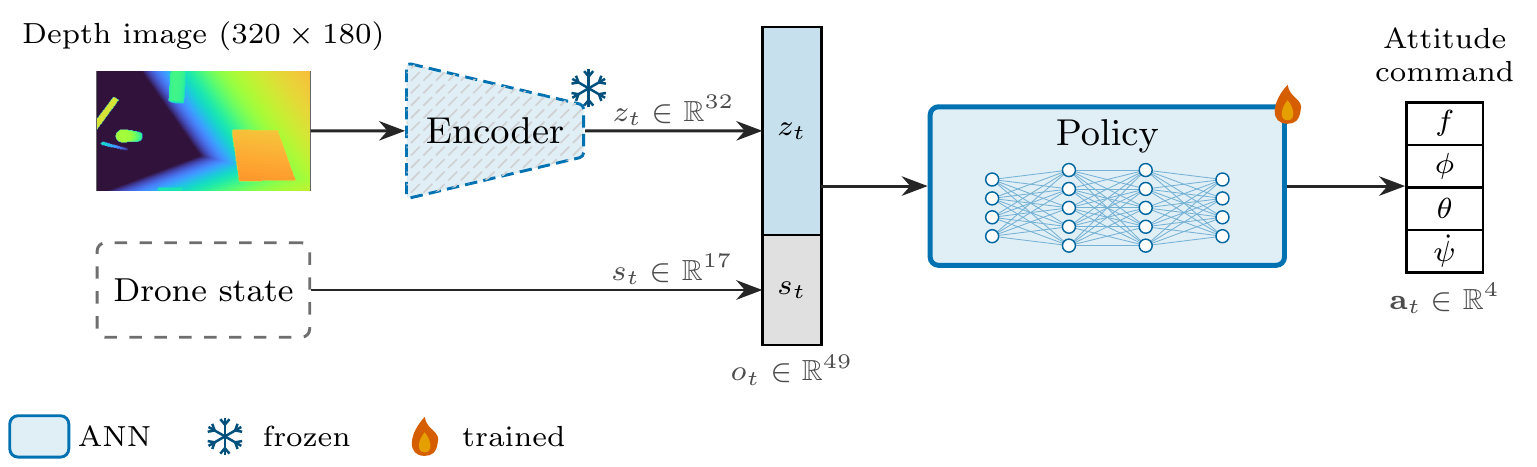
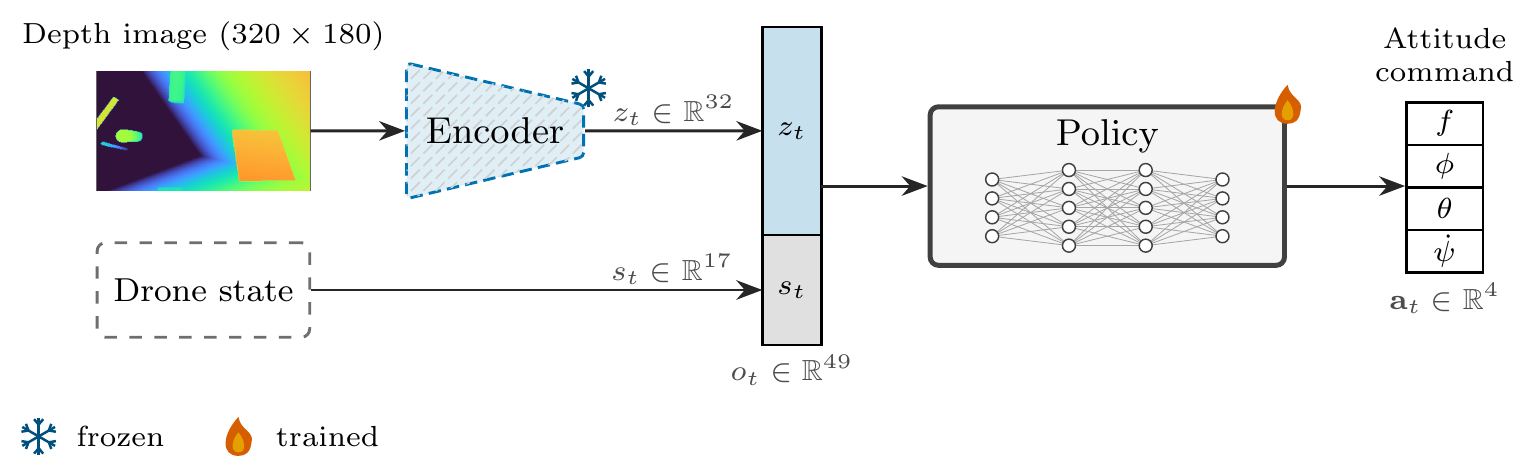
Policy figure: neutral policy box, no ANN legend entry
The policy block and its network glyph are drawn in gray instead of the ANN
blue, since the same figure stands for the ANN teacher and the SNN student;
the legend keeps only frozen / trained.

diff --git a/phd-proposal/figures/ann_policy_overview.tex b/phd-proposal/figures/ann_policy_overview.tex
@@ -5,8 +5,8 @@
   \def\layers{{4,5,5,3}}
   \foreach \l/\n in {0/4,1/5,2/5,3/4} {\foreach \i in {1,...,\n} {\coordinate (m\l-\i) at (\l*6.5, {(\i-(\n+1)/2)*1.6});}}
   \foreach \l/\n/\m in {0/4/5,1/5/5,2/5/4} {\pgfmathtruncatemacro{\nl}{\l+1}
-    \foreach \i in {1,...,\n} {\foreach \j in {1,...,\m} {\draw[sfBlue!55, line width=0.2pt] (m\l-\i) -- (m\nl-\j);}}}
-  \foreach \l/\n in {0/4,1/5,2/5,3/4} {\foreach \i in {1,...,\n} {\fill[white] (m\l-\i) circle (0.55); \draw[sfBlue!90!black, line width=0.35pt] (m\l-\i) circle (0.55);}}
+    \foreach \i in {1,...,\n} {\foreach \j in {1,...,\m} {\draw[black!35, line width=0.2pt] (m\l-\i) -- (m\nl-\j);}}}
+  \foreach \l/\n in {0/4,1/5,2/5,3/4} {\foreach \i in {1,...,\n} {\fill[white] (m\l-\i) circle (0.55); \draw[black!75, line width=0.35pt] (m\l-\i) circle (0.55);}}
 }}
 \begin{document}
 \begin{tikzpicture}[sf, node distance=5mm and 8mm]
@@ -40,7 +40,7 @@
   \node[io, anchor=center, minimum width=18mm, font=\footnotesize] (state) at (img |- sin) {Drone state};
 
   % policy and output on the main row
-  \node[ann, trainable, anchor=west, minimum width=30mm] (pol) at ($(vout)+(9mm,0)$) {Policy\\[1.5pt]\mlpglyph};
+  \node[block, draw=black!75, fill=black!4, trainable, anchor=west, minimum width=30mm] (pol) at ($(vout)+(9mm,0)$) {Policy\\[1.5pt]\mlpglyph};
   \trainmark{pol}
   \coordinate (atop) at ($(pol.east)+(10mm,2*3.6mm)$);
   % ---------- action vector a_t = (f, phi, theta, psidot), drawn like o_t ----------
@@ -59,6 +59,6 @@
   \draw[data] (vout) -- (pol);
   \draw[data] (pol.east) -- (pol.east -| a1.west);
 
-  \sflegend{$(current bounding box.south west)+(0,-4mm)$}{ann,frozen,trained}
+  \sflegend{$(current bounding box.south west)+(0,-4mm)$}{frozen,trained}
 \end{tikzpicture}
 \end{document}
